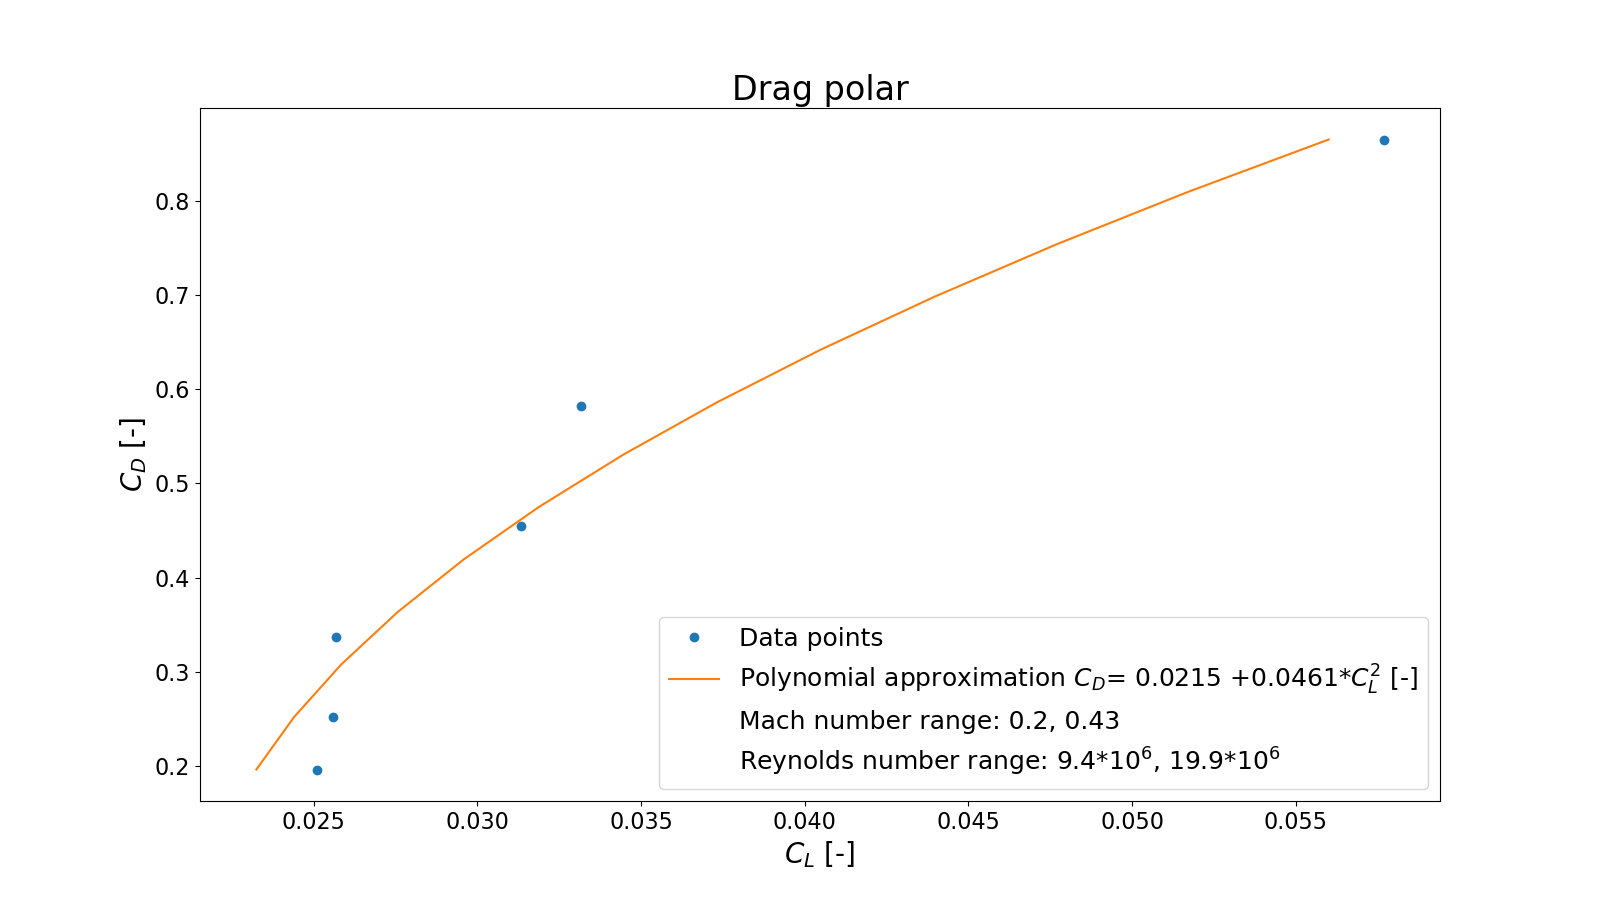
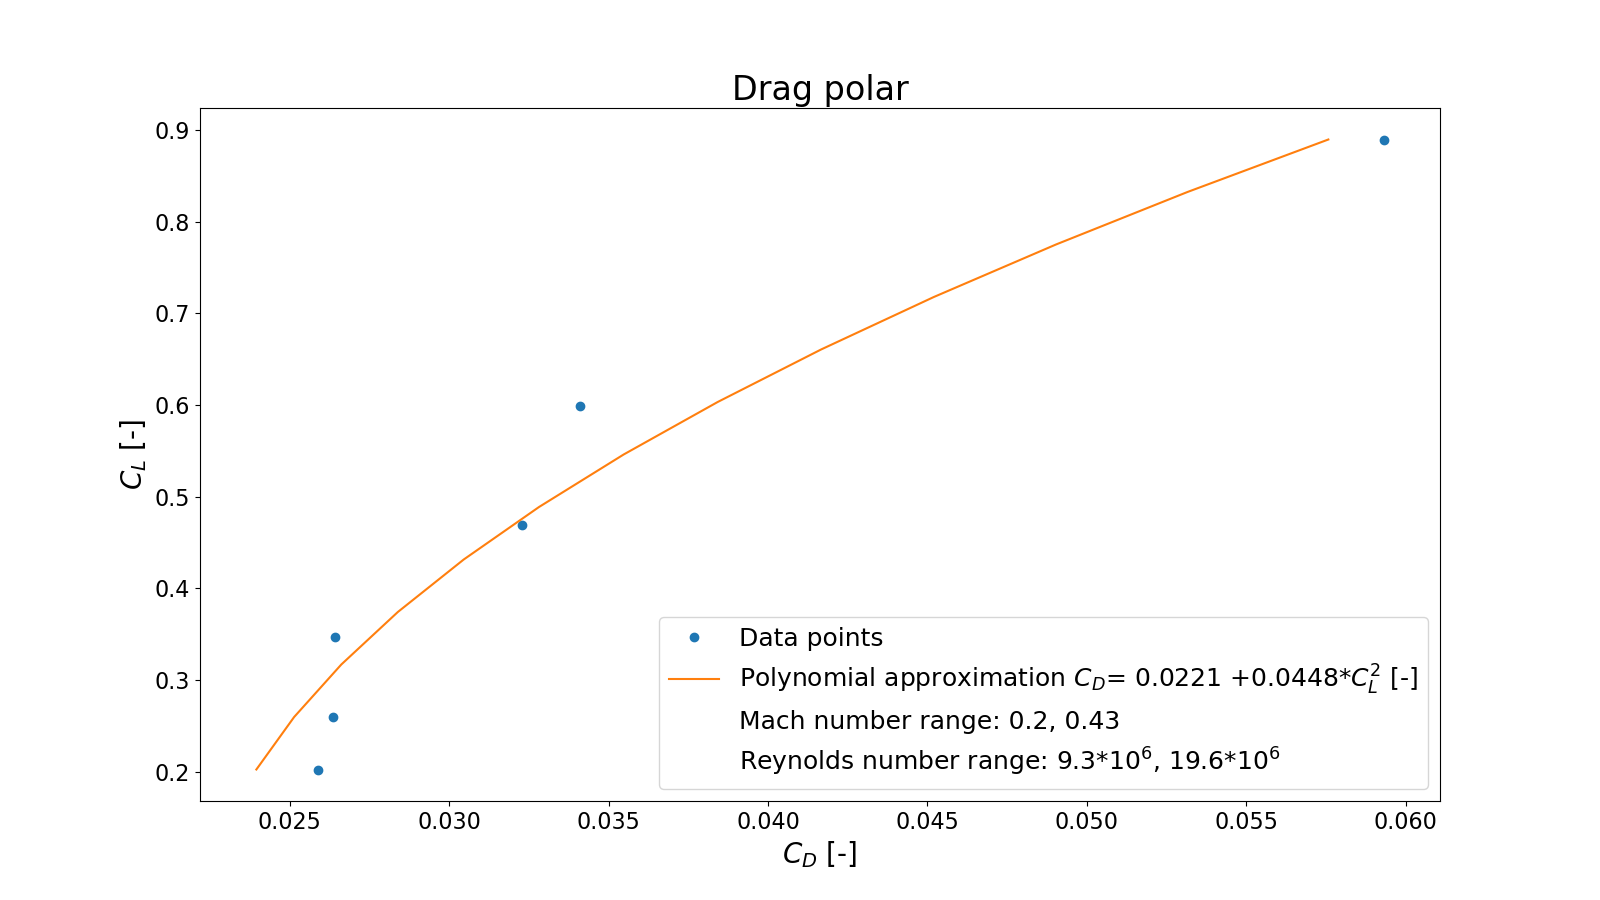
Fixing plots

diff --git a/Data regression.py b/Data regression.py
@@ -16,13 +16,13 @@ elevatortrimcurvev=False
 FeVe=False
 save=False
 
-CNalpha=True
-#CN_CT=True
+#CNalpha=True
+CN_CT=True
 #elevatortrimcurvea=True
 #elevatortrimcurvev=True
 #FeVe=True
 
-save=True
+#save=True
 
 def polyfitter(x1,y1,degree):
     outlierchecks=5
@@ -45,6 +45,7 @@ def polyfitter(x1,y1,degree):
         e=y1-ycheck
         threshold=2
         deleters=np.array([])
+        print ('maxzscore=', max(abs(scipy.stats.zscore(e))))
         for i in range(len(e)):
             if abs(scipy.stats.zscore(e)[i])>threshold:
                 x1=np.delete(x1,i)
@@ -60,6 +61,7 @@ def polyfitter(x1,y1,degree):
     for cff in coefficients:
         y+=cff*x**i
         i+=1
+    print ('correlation=', np.corrcoef(ycheck,y1)[0,1])
     return x1,y1,x,y,coefficients
 
 def polyfitter2(x1,y1):
@@ -82,6 +84,7 @@ def polyfitter2(x1,y1):
         e=y1-ycheck
         threshold=2
         deleters=np.array([])
+        print ('maxzscore=', max(abs(scipy.stats.zscore(e))))
         for i in range(len(e)):
             if abs(scipy.stats.zscore(e)[i])>threshold:
                 x1=np.delete(x1,i)
@@ -95,10 +98,11 @@ def polyfitter2(x1,y1):
     step=(max(x1)-min(x1))/2/len(x1)
     x=np.arange(min(x1),max(x1)+step,step)
     y=func(x,coeff[0],coeff[1])
+    print ('correlation=', np.corrcoef(ycheck,y1)[0,1])
     return x1,y1,x,y,coeff
 
 
-workbook = xlrd.open_workbook('Post_Flight_Datasheet.xlsx')
+workbook = xlrd.open_workbook('REFERENCE_Post_Flight_Datasheet.xlsx')
 
 sheet = workbook.sheet_by_name('Sheet1')
 
@@ -121,7 +125,7 @@ for i in range(6):####change to 7 for real data
 
 
 # fix thrust.exe singularity at 5th line
-#hp1[4]=hp1[4]*1.000001
+hp1[4]=hp1[4]*1.000001
 #IAS1[4]=IAS1[4]*1.01
 #a1[4]=a1[4]*1.01
 #FFl1[4]=FFl1[4]*1.01
@@ -199,7 +203,7 @@ def conversions(hp,V,alpha,FFl,FFr,Wf,TAT):
     TmomISA=Temp0+Lambda*hp
 
     Tdiff=Tmom-TmomISA
-    Vt=(Gamma*R*TmomISA)**0.5*M
+    Vt=(Gamma*R*Tmom)**0.5*M
     rhomom=pmom/R/Tmom
     Ve=Vt*(rhomom/rho0)**0.5
     Vetilde=Ve*(Ws/Wmom)**0.5
@@ -226,11 +230,13 @@ def conversions(hp,V,alpha,FFl,FFr,Wf,TAT):
     os.spawnl(0,"thrust(1).exe",'args')
 
     T = np.loadtxt( 'thrust.dat' )
-    D=np.array([])
+    Ds=np.array([])
     for line in T:
-        Ds=np.append(D,sum(line))
+        Ds=np.append(Ds,sum(line))
     CTs=Ds/(0.5*rho0*Ve**2*S)
     Re=Vt*c/nu
+    print('D',D)
+    print('Ds',Ds)
 
     return Ve,Vetilde,CN,CT,CTs,Wmom,rhomom,Tmom,M,Re
 
@@ -250,6 +256,8 @@ TC=CNtrim
 TCs=CTstrim
 
 deeqstar=detrim-CmTc/Cmdelta*(TCs-TC)
+
+Festar=Fetrim*Ws/Wmomtrim
 
 width=16
 height=width*9/16
@@ -282,8 +290,8 @@ if CN_CT:
     plt.plot(np.empty(0),np.empty(0),' ',label='Mach number range: '+str(round(min(M1),2))+', '+str(round(max(M1),2)))
     plt.plot(np.empty(0),np.empty(0),' ',label='Reynolds number range: '+str(round(min(Re1/10**6),1))+'*$10^6$'+', '+str(round(max(Re1/10**6),1))+'*$10^6$')
     plt.title('Drag polar',fontsize=24)
-    plt.xlabel('$C_L$ [-]',fontsize=20)
-    plt.ylabel('$C_D$ [-]',fontsize=20)
+    plt.xlabel('$C_D$ [-]',fontsize=20)
+    plt.ylabel('$C_L$ [-]',fontsize=20)
     plt.legend(loc='lower right',fontsize=18)
     if save:
         plt.savefig('Plots/CLCD')
@@ -331,7 +339,7 @@ if elevatortrimcurvev:
 
 if FeVe:
     degree=2
-    polyfits=polyfitter(Vetildetrim,Fetrim,degree)
+    polyfits=polyfitter(Vetildetrim,Festar,degree)
     plt.plot(polyfits[0],polyfits[1],'o',label='Data points')
     plt.plot(polyfits[2],polyfits[3],label='Polynomial approximation $F_e^\star$='+str(round(polyfits[4][0],4))+' +'+str(round(polyfits[4][1],4))+'*$\~V_e$ +'+str(round(polyfits[4][2],4))+'*$\~V_e^2$'+' [N]')
     plt.gca().invert_yaxis()
